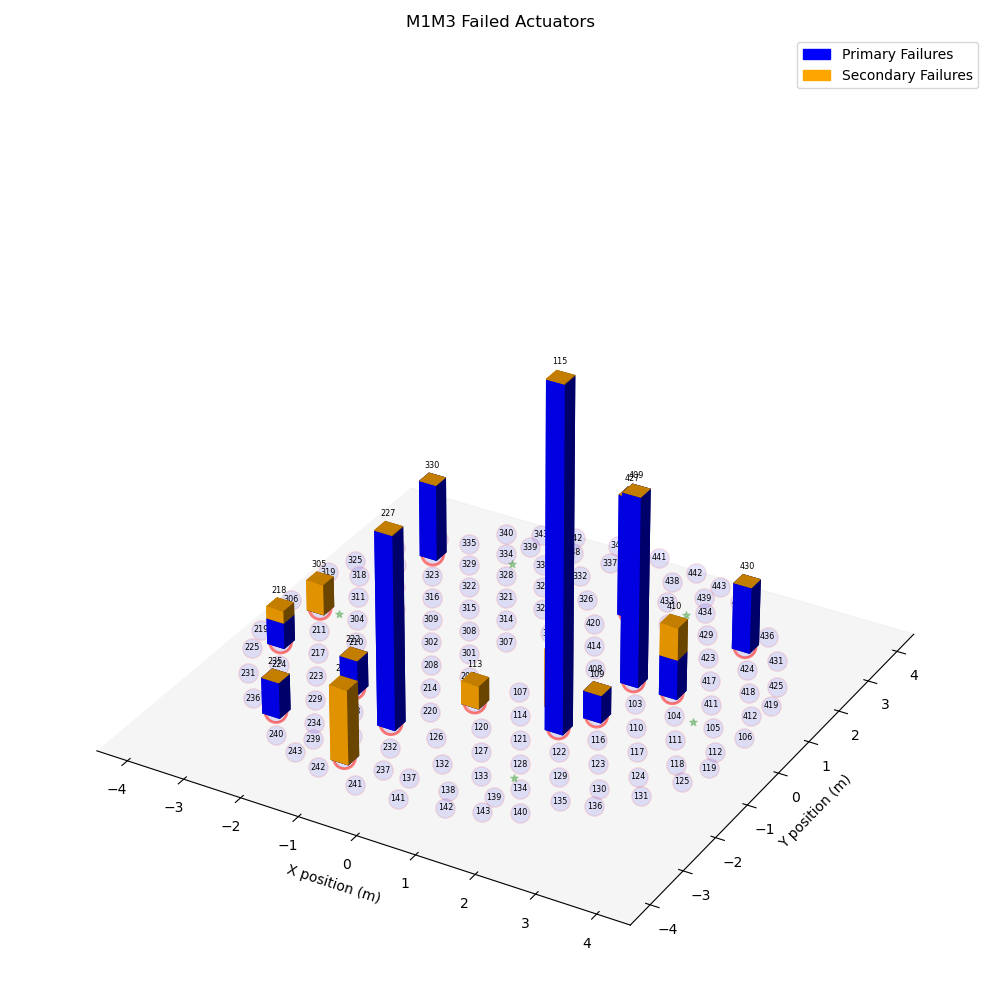
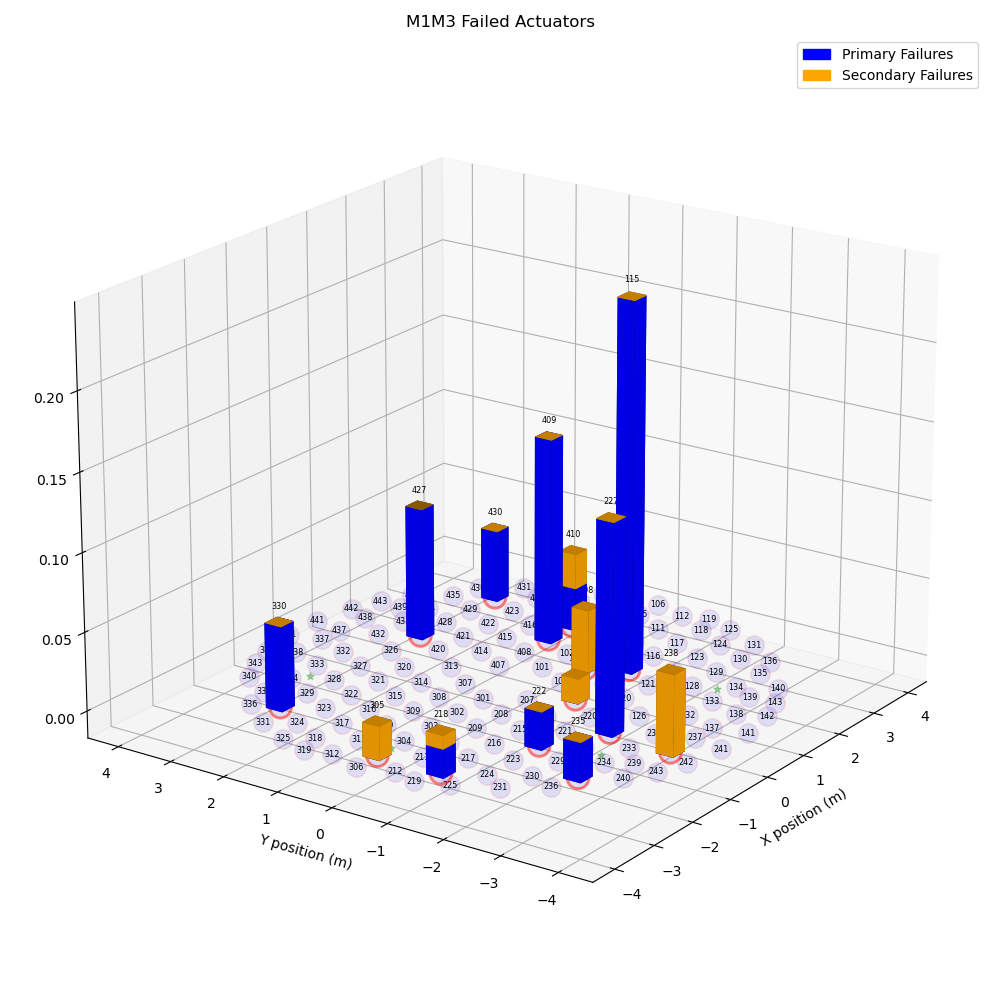
Adding/Changing 3d failures distribution

diff --git a/index.rst b/index.rst
@@ -135,21 +135,28 @@ Trouble makers
 
 I order to determine which actuators causes more trouble, we calculated the rate of failures for all Bump Tests available in the efd to the date. 
 The results are shown in Figure 10. At this point, we are interested in knowing the relative frequency of failures, which will give us an idea of
-the trouble makers. 
+the actuators with the highest rate of failures. 
 
 .. figure:: ./_static/histogram_frequency_of_failures.png
 
-    Frequency of failures with spatial distribution of the actuators.
+    Frequency of failures with spatial distribution of the actuators. The direction of the actuator is shown in orange, for actuators with 
+    failures in the secondary cylinder. Primary actuators will always have failures in the Z direction.
 
 
-Note however that to this date, we don't have the full set of Bump Tests available in the efd, so the results are not representative of the full history of the M1M3 Bump Tests.
-In a separated analysis, we will look at the full history of the Bump Tests, considering that a couple of actuators have been replaced in the meantime.
-In order to do that, we will need access to the full set of Bump Tests, which is not available in the efd at this point. 
-In this analysis, we will look into the absolute frequency of failures, which will give us the information on how often a given actuator fails the Bump Test.
+Note, however, we don't have the full set of Bump Tests available in the efd (on Sep 2023), so the results are not representative of the full history of the M1M3 Bump Tests.
+In a separated analysis, we will look at the full history of the Bump Tests, considering that a couple of actuators have been replaced over the past 1-2 years.
+In order to do that, we will need access to the full set of Bump Tests. 
+
+In the follow up analysis, we will look into the absolute frequency of failures, which will give us the information on how often a given actuator fails the Bump Test, 
+following also the individual history of each actuator (based on position) before and after the replacement.
+
+The figure below shows the same result as the histogram above, but in a different format to highlight the spatial distribution of the actuators with the relative frequency of failures (Figure 11).
+It does not show any quadrant having more failures than the others, 
+but it does show that the actuators with the highest rate of failures are located towards the inner half of the M1M3 mirror cell with a tendency to be located along +X TMA axis.
 
 .. figure:: ./_static/layout_frequency_of_failures.png
 
-    Layout of failures.
+    Distribution of the relative frequency of failures.
 
 
 Summary
